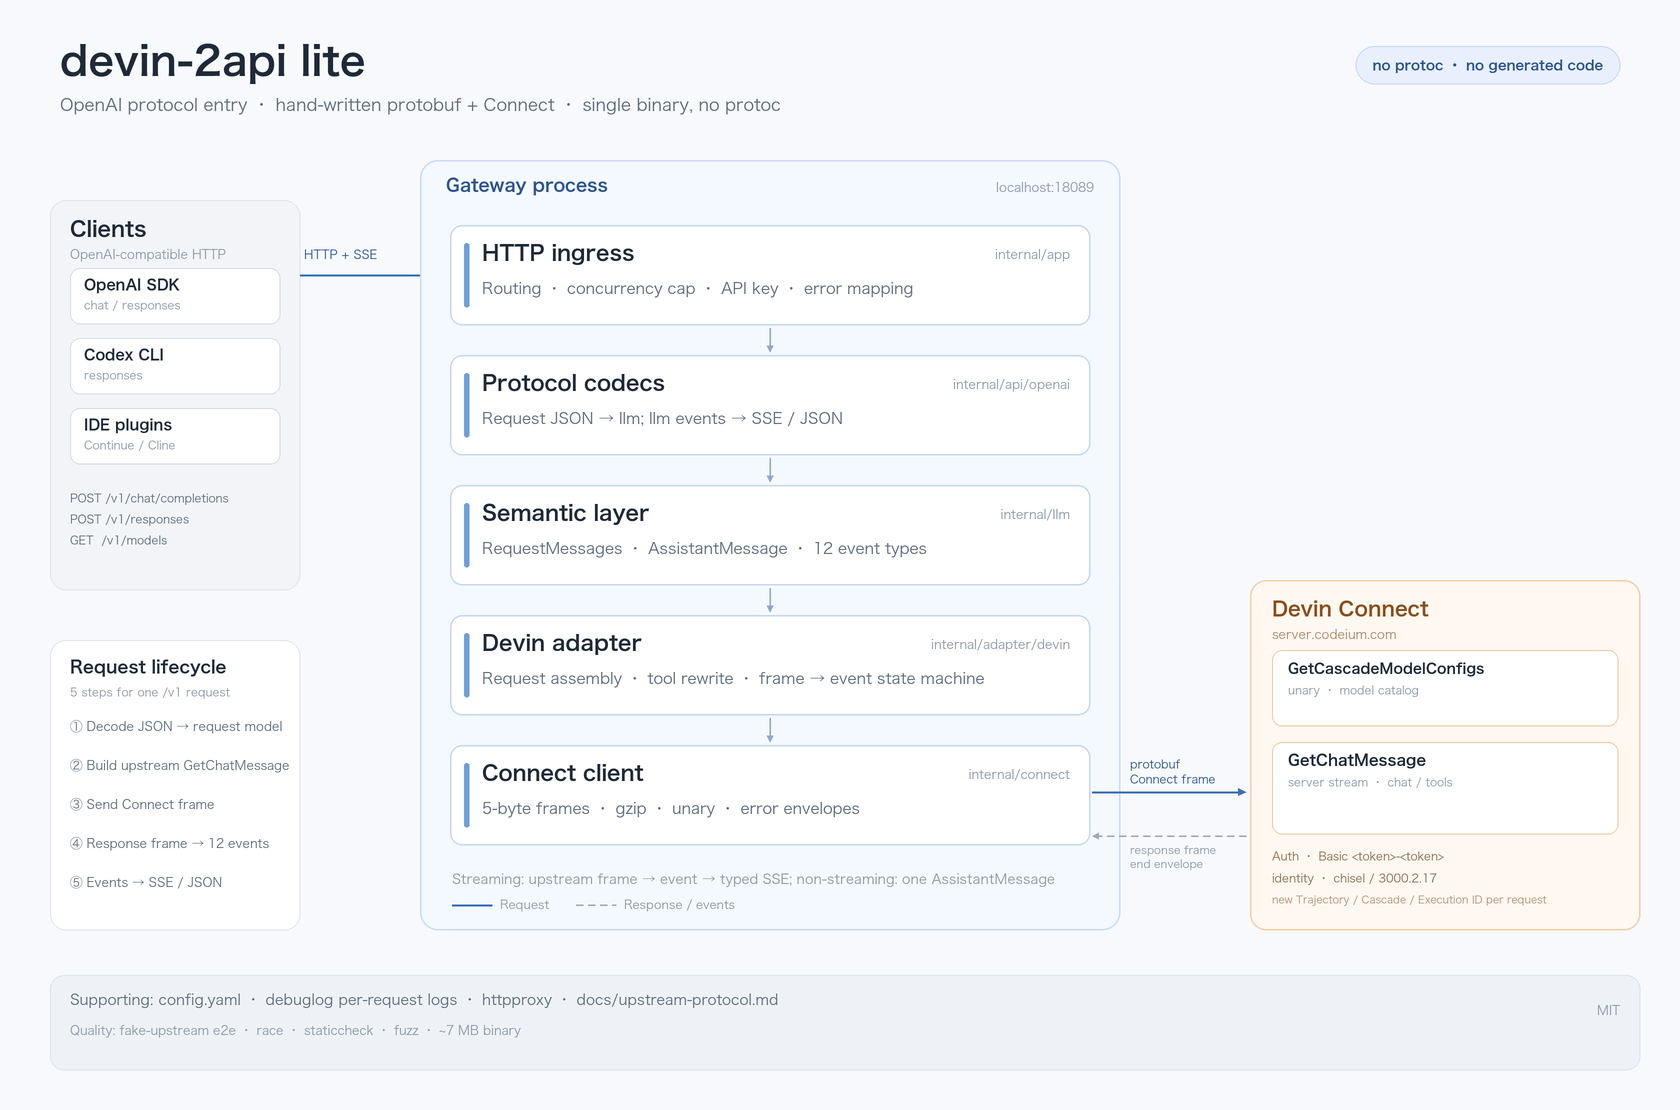
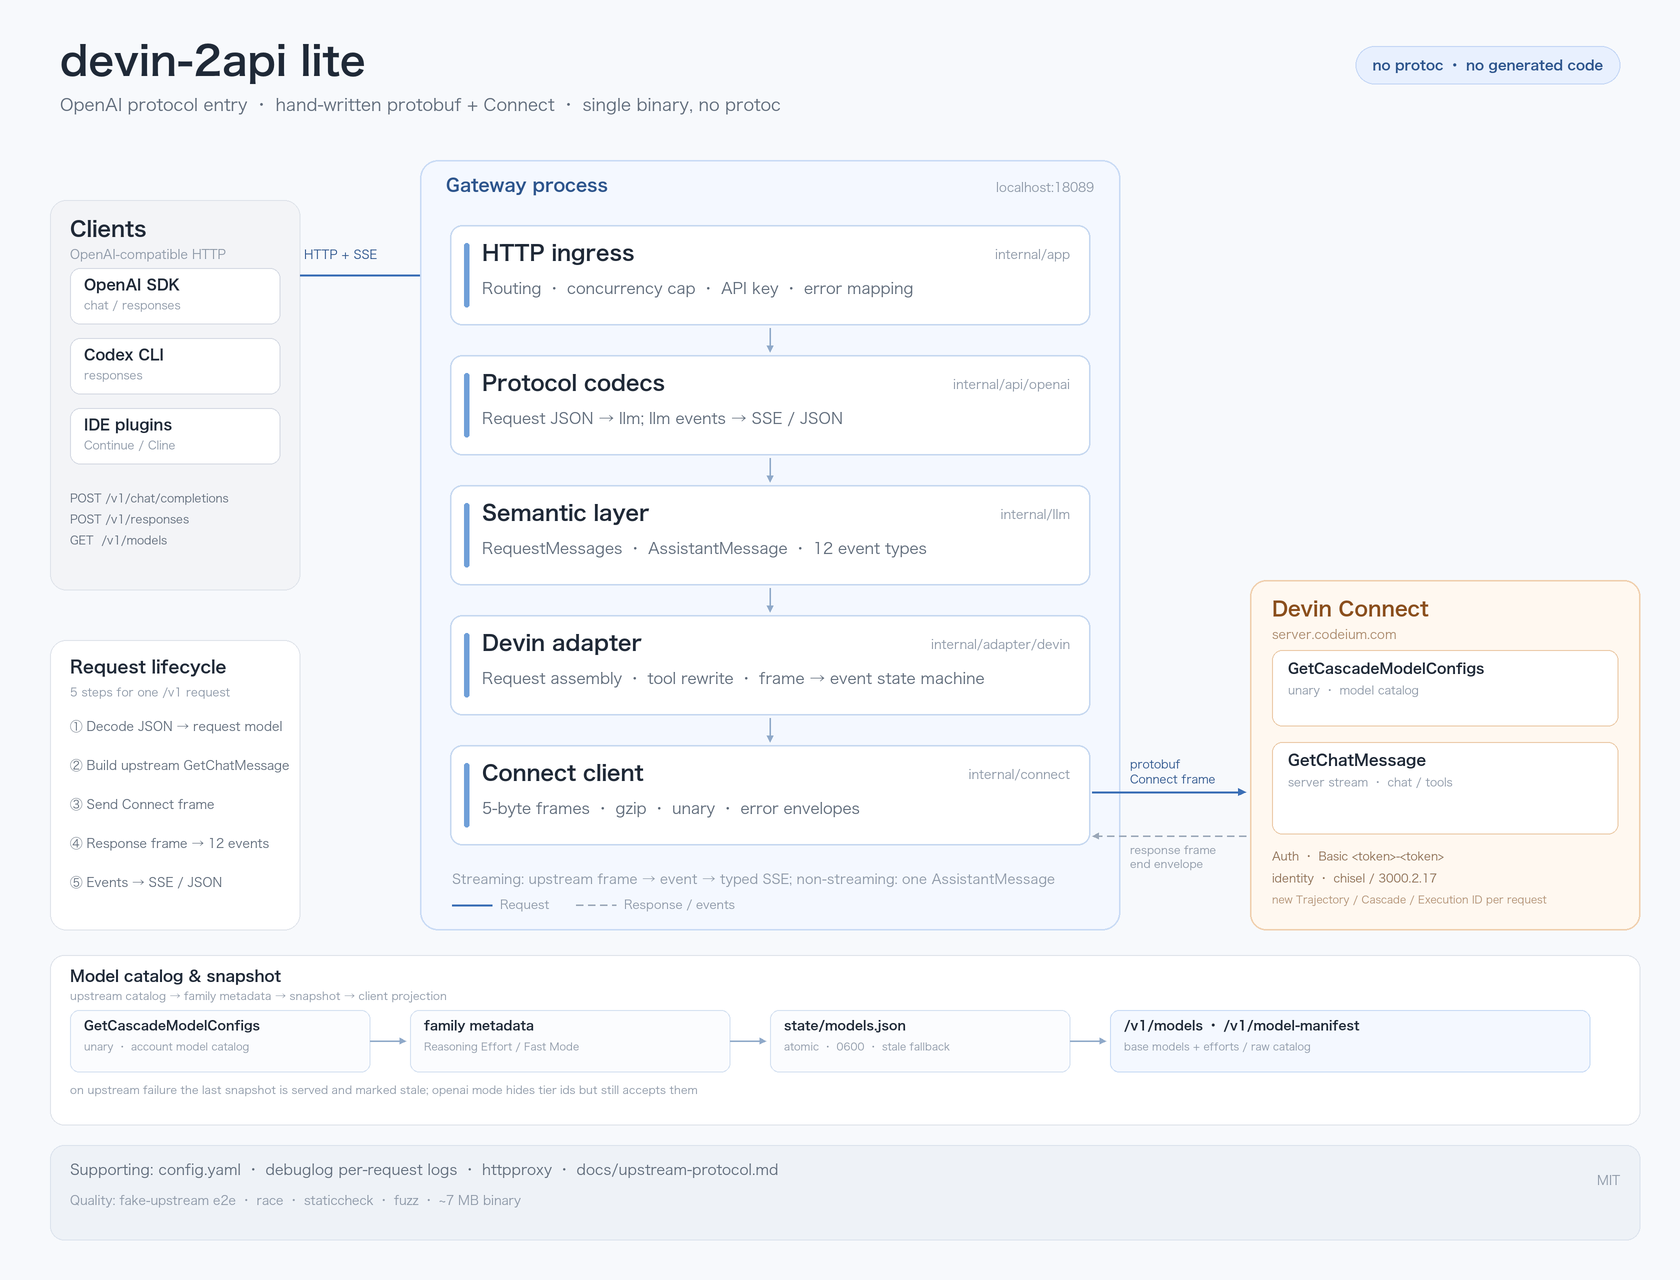
docs: add catalog pipeline to architecture diagram

diff --git a/docs/architecture.py b/docs/architecture.py
@@ -13,7 +13,7 @@ import os
 from PIL import Image, ImageDraw, ImageFont
 
 S = 2
-W, H = 1680, 1110
+W, H = 1680, 1280
 FONT_PATH = "/System/Library/Fonts/Hiragino Sans GB.ttc"
 
 INK = "#1F2937"
@@ -57,6 +57,17 @@ TEXTS = {
         ],
         "upstream_title": "Devin Connect",
         "upstream_sub": "server.codeium.com",
+        "catalog_title": "模型目录与快照",
+        "catalog_sub": "上游目录 → family metadata → 快照 → 对外投影",
+        "catalog_rpc": "GetCascadeModelConfigs",
+        "catalog_rpc_sub": "一元 · 账户模型目录",
+        "catalog_family": "family metadata",
+        "catalog_family_sub": "Reasoning Effort / Fast Mode",
+        "catalog_snapshot": "state/models.json",
+        "catalog_snapshot_sub": "原子写入 · 0600 · 失败回退",
+        "catalog_output": "/v1/models · /v1/model-manifest",
+        "catalog_output_sub": "基础模型 + 档位 / 原始目录",
+        "catalog_note": "上游失败 → 使用上次快照并标记 stale；openai 模式隐藏实际档位 id，但仍接受直接调用",
         "rpc_models": "GetCascadeModelConfigs",
         "rpc_models_sub": "一元 · 模型目录",
         "rpc_chat": "GetChatMessage",
@@ -104,10 +115,32 @@ TEXTS = {
         ],
         "upstream_title": "Devin Connect",
         "upstream_sub": "server.codeium.com",
+        "catalog_title": "模型目录与快照",
+        "catalog_sub": "上游目录 → family metadata → 快照 → 对外投影",
+        "catalog_rpc": "GetCascadeModelConfigs",
+        "catalog_rpc_sub": "一元 · 账户模型目录",
+        "catalog_family": "family metadata",
+        "catalog_family_sub": "Reasoning Effort / Fast Mode",
+        "catalog_snapshot": "state/models.json",
+        "catalog_snapshot_sub": "原子写入 · 0600 · 失败回退",
+        "catalog_output": "/v1/models · /v1/model-manifest",
+        "catalog_output_sub": "基础模型 + 档位 / 原始目录",
+        "catalog_note": "上游失败 → 使用上次快照并标记 stale；openai 模式隐藏实际档位 id，但仍接受直接调用",
         "rpc_models": "GetCascadeModelConfigs",
         "rpc_models_sub": "unary · model catalog",
         "rpc_chat": "GetChatMessage",
         "rpc_chat_sub": "server stream · chat / tools",
+        "catalog_title": "Model catalog & snapshot",
+        "catalog_sub": "upstream catalog → family metadata → snapshot → client projection",
+        "catalog_rpc": "GetCascadeModelConfigs",
+        "catalog_rpc_sub": "unary · account model catalog",
+        "catalog_family": "family metadata",
+        "catalog_family_sub": "Reasoning Effort / Fast Mode",
+        "catalog_snapshot": "state/models.json",
+        "catalog_snapshot_sub": "atomic · 0600 · stale fallback",
+        "catalog_output": "/v1/models · /v1/model-manifest",
+        "catalog_output_sub": "base models + efforts / raw catalog",
+        "catalog_note": "on upstream failure the last snapshot is served and marked stale; openai mode hides tier ids but still accepts them",
         "auth": "Auth · Basic <token>-<token>",
         "identity": "identity · chisel / 3000.2.17",
         "ids": "new Trajectory / Cascade / Execution ID per request",
@@ -277,11 +310,33 @@ def render(lang, filename):
     txt(1130, 844, t["arrow_resp"][0], 11, fill=FAINT)
     txt(1130, 858, t["arrow_resp"][1], 11, fill=FAINT)
 
+    # ---------- 模型目录 ----------
+    rect(50, 955, 1590, 170, "#FFFFFF", "#DFE3EA", radius=14, width=1.2)
+    txt(70, 968, t["catalog_title"], 15, bold=True)
+    txt(70, 990, t["catalog_sub"], 11, fill=FAINT)
+
+    catalog_boxes = [
+        (70, 300, t["catalog_rpc"], t["catalog_rpc_sub"], "#FBFCFE", "#D5E1F1"),
+        (410, 320, t["catalog_family"], t["catalog_family_sub"], "#FBFCFE", "#D5E1F1"),
+        (770, 300, t["catalog_snapshot"], t["catalog_snapshot_sub"], "#FBFCFE", "#D5E1F1"),
+        (1110, 480, t["catalog_output"], t["catalog_output_sub"], "#F4F8FF", "#C9DBF5"),
+    ]
+    for x, width, title, sub, fill, outline in catalog_boxes:
+        rect(x, 1010, width, 62, fill, outline, radius=9, width=1)
+        txt(x + 14, 1019, title, 12.5, bold=True)
+        txt(x + 14, 1041, sub, 10.5, fill=FAINT)
+
+    arrow((370, 1041), (406, 1041), "#8FA9C9", width=1.8, size=7)
+    arrow((730, 1041), (766, 1041), "#8FA9C9", width=1.8, size=7)
+    arrow((1070, 1041), (1106, 1041), "#8FA9C9", width=1.8, size=7)
+
+    txt(70, 1084, t["catalog_note"], 11, fill=FAINT)
+
     # ---------- 底部 ----------
-    rect(50, 975, 1590, 95, "#EEF2F7", "#DCE3ED", radius=14, width=1.2)
-    txt(70, 992, t["bottom_modules"], 14.5, fill=MUTED)
-    txt(70, 1024, t["bottom_quality"], 12.5, fill=FAINT)
-    txt(1620, 1004, t["bottom_license"], 12.5, fill=FAINT, anchor="ra")
+    rect(50, 1145, 1590, 95, "#EEF2F7", "#DCE3ED", radius=14, width=1.2)
+    txt(70, 1162, t["bottom_modules"], 14.5, fill=MUTED)
+    txt(70, 1194, t["bottom_quality"], 12.5, fill=FAINT)
+    txt(1620, 1174, t["bottom_license"], 12.5, fill=FAINT, anchor="ra")
 
     out = os.path.join(os.path.dirname(os.path.abspath(__file__)), filename)
     IMG.resize((W, H), Image.LANCZOS).save(out)

diff --git a/README.md b/README.md
@@ -212,7 +212,7 @@ first failing stage. Failures are also logged to stderr with a request ID, even 
 | Upstream bindings | Generated Connect bindings | Hand-written wire + Connect |
 | Build step | `task generate` | None |
 | Dependencies | 7 | 1 (`yaml.v3`) |
-| Production LOC | 8,851 | 7,414 |
+| Production LOC | 8,851 | 7,432 |
 
 The layer boundaries are unchanged; adding Anthropic or WebSocket back means adding one
 codec package.

diff --git a/README.zh-CN.md b/README.zh-CN.md
@@ -207,7 +207,7 @@ catalog:
 | 上游绑定 | protoc 生成 Connect 绑定 | 手写 wire + Connect |
 | 构建前置 | `task generate` | 无 |
 | 依赖 | 7 个 | 1 个（`yaml.v3`） |
-| 生产代码 | 8,851 行 | 7,414 行 |
+| 生产代码 | 8,851 行 | 7,432 行 |
 
 分层边界没有变化；要加回 Anthropic 或 WebSocket，只需补一个编解码包。
 
